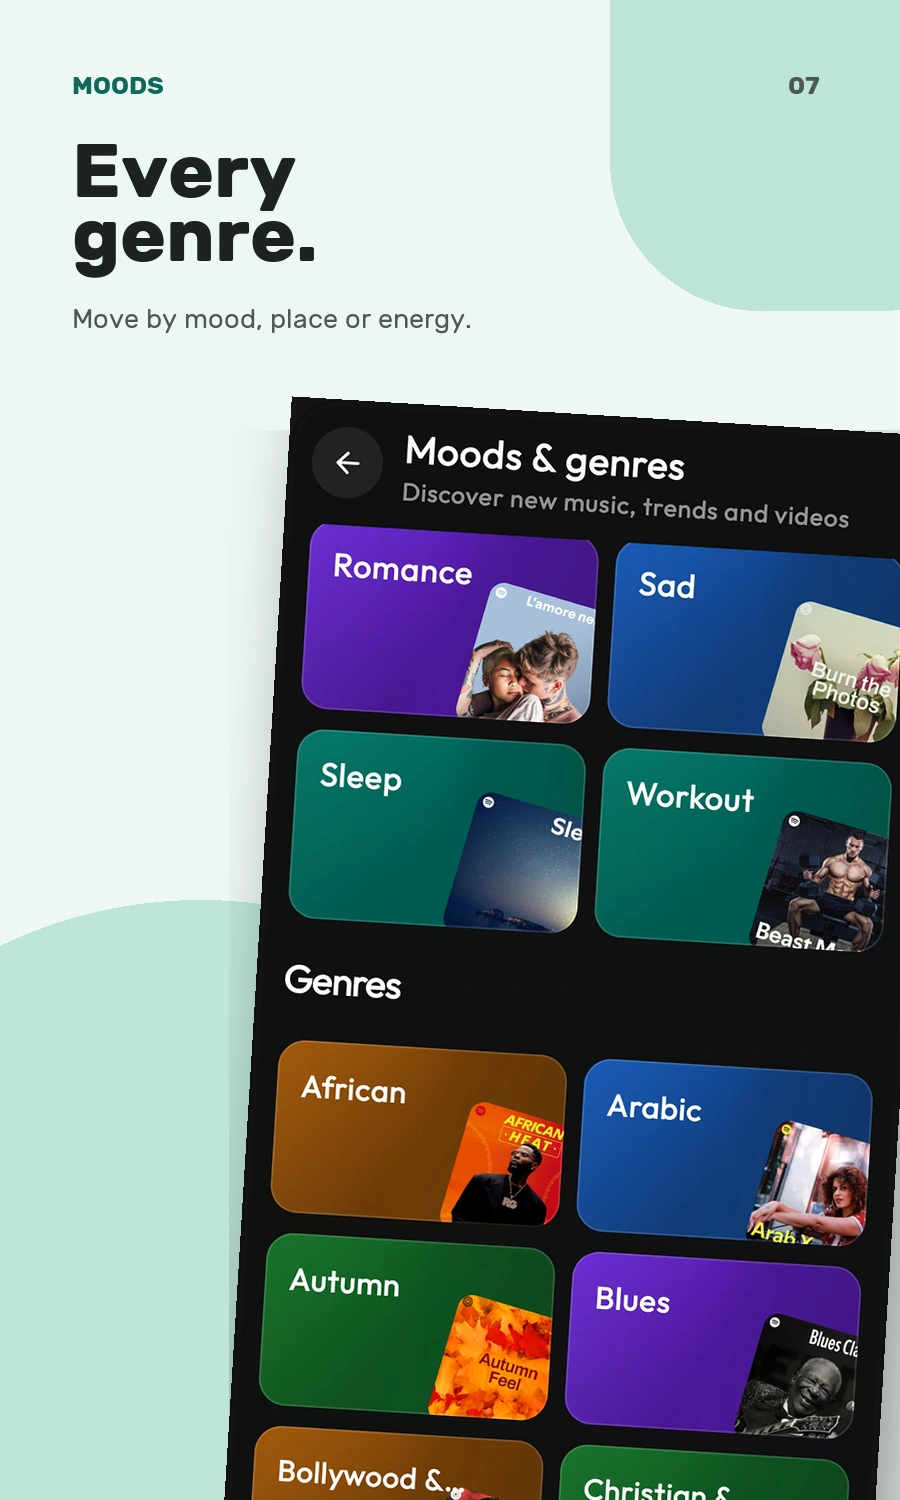
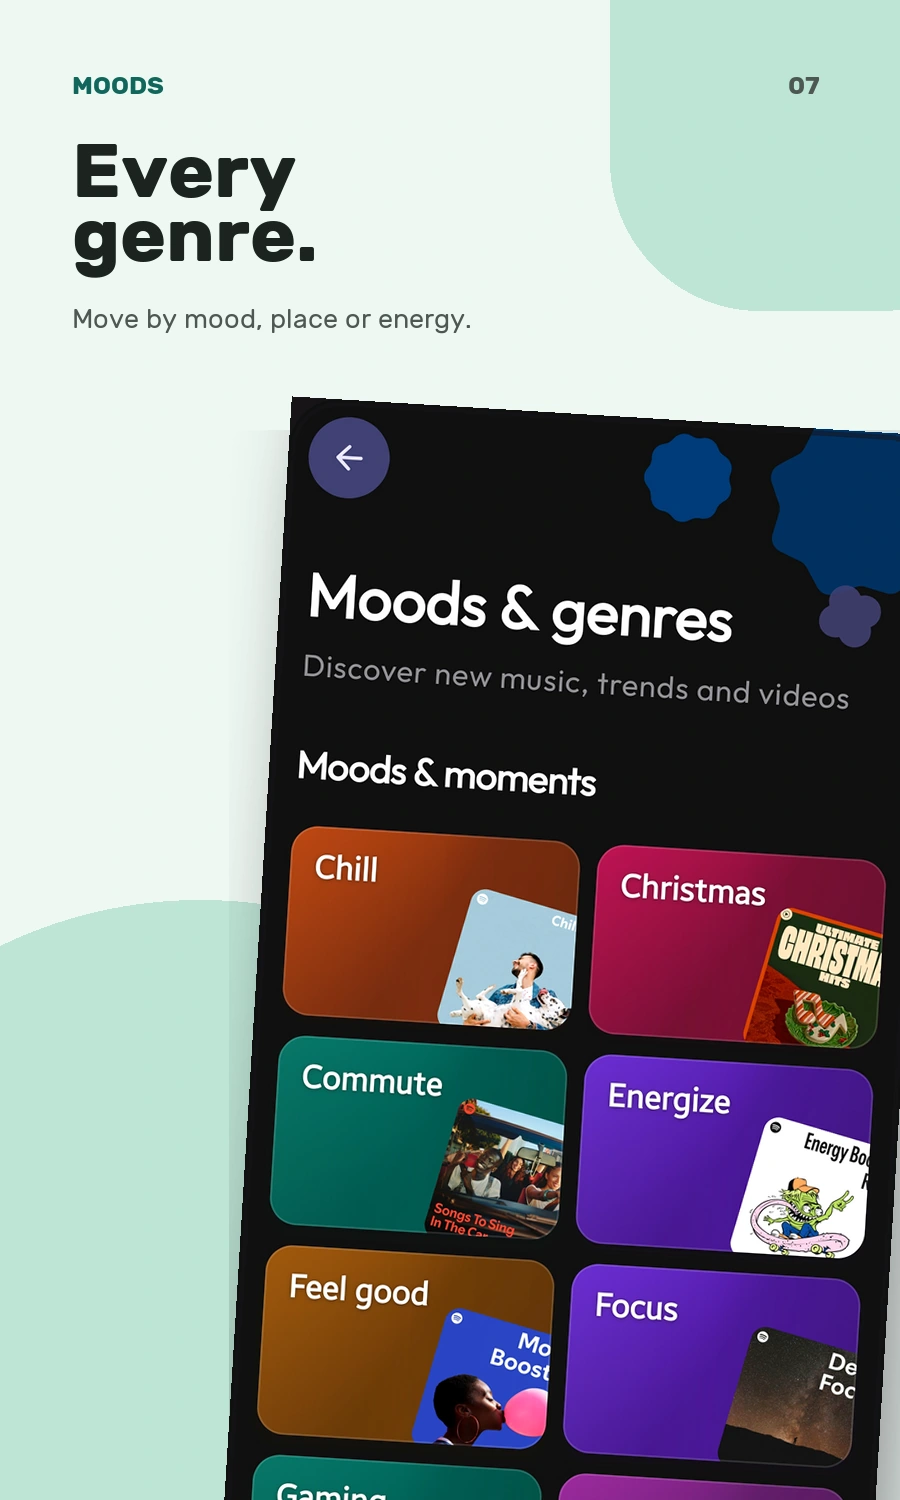
docs: refresh every genre showcase screenshot

diff --git a/scripts/generate_showcase_assets.py b/scripts/generate_showcase_assets.py
@@ -587,7 +587,7 @@ README_CARD_SPECS = [
     ("04_open_the_album", "OFFLINE", "Open the\nwhole album.", "Keep the music you come back to.", "Screenshot_20260926_194706_LEVYRA.jpg"),
     ("05_fresh_currents", "DISCOVERY", "Fresh\ncurrents.", "New releases without the scroll fatigue.", "Screenshot_20261010_132210_LEVYRA.jpg"),
     ("06_built_for_your_taste", "LEVYRA MIX", "Built for\nyour taste.", "A mix shaped around the moment.", "Screenshot_20261010_132217_LEVYRA.jpg"),
-    ("07_every_genre", "MOODS", "Every\ngenre.", "Move by mood, place or energy.", "Screenshot_20261010_132249_LEVYRA.jpg"),
+    ("07_every_genre", "MOODS", "Every\ngenre.", "Move by mood, place or energy.", "Screenshot_20261015_140910_LEVYRA.jpg"),
     ("08_acoustic_precision", "AUDIO", "Acoustic\nprecision.", "Tune the sound, keep the soul.", "Screenshot_20261010_190726_LEVYRA.jpg"),
     ("09_keep_it_personal", "LIBRARY", "Keep it\npersonal.", "Your collection stays yours.", "Screenshot_20261010_132050_LEVYRA.jpg"),
     ("10_curated_for_you", "COLLECTIONS", "Curated\nfor you.", "Quick picks, ready when you are.", "Screenshot_20261010_132136_LEVYRA.jpg"),

diff --git a/README.md b/README.md
@@ -126,7 +126,7 @@ Enhanced Audio is on by default and can be turned off in Audio Settings. Technic
 
 <p align="center">
 <a href="docs/assets/showcase/editorial-cards/01_pure_listening.webp"><img src="docs/assets/showcase/editorial-cards/01_pure_listening.webp?v=m3-cards-v2" width="200" alt="Levyra radio: Pure listening" /></a><a href="docs/assets/showcase/editorial-cards/02_stay_with_the_song.webp"><img src="docs/assets/showcase/editorial-cards/02_stay_with_the_song.webp?v=m3-cards-v2" width="200" alt="Levyra now playing: Stay with the song" /></a><a href="docs/assets/showcase/editorial-cards/03_sing_along.webp"><img src="docs/assets/showcase/editorial-cards/03_sing_along.webp?v=m3-cards-v2" width="200" alt="Levyra synced lyrics: Sing along" /></a><a href="docs/assets/showcase/editorial-cards/04_open_the_album.webp"><img src="docs/assets/showcase/editorial-cards/04_open_the_album.webp?v=m3-cards-v2" width="200" alt="Levyra offline albums: Open the whole album" /></a><br>
-<a href="docs/assets/showcase/editorial-cards/05_fresh_currents.webp"><img src="docs/assets/showcase/editorial-cards/05_fresh_currents.webp?v=m3-cards-v2" width="200" alt="Levyra discovery: Fresh currents" /></a><a href="docs/assets/showcase/editorial-cards/06_built_for_your_taste.webp"><img src="docs/assets/showcase/editorial-cards/06_built_for_your_taste.webp?v=m3-cards-v2" width="200" alt="Levyra Mix: Built for your taste" /></a><a href="docs/assets/showcase/editorial-cards/07_every_genre.webp"><img src="docs/assets/showcase/editorial-cards/07_every_genre.webp?v=m3-cards-v2" width="200" alt="Levyra moods and genres: Every genre" /></a><a href="docs/assets/showcase/editorial-cards/08_acoustic_precision.webp"><img src="docs/assets/showcase/editorial-cards/08_acoustic_precision.webp?v=m3-cards-v2" width="200" alt="Levyra audio tuning: Acoustic precision" /></a><br>
+<a href="docs/assets/showcase/editorial-cards/05_fresh_currents.webp"><img src="docs/assets/showcase/editorial-cards/05_fresh_currents.webp?v=m3-cards-v2" width="200" alt="Levyra discovery: Fresh currents" /></a><a href="docs/assets/showcase/editorial-cards/06_built_for_your_taste.webp"><img src="docs/assets/showcase/editorial-cards/06_built_for_your_taste.webp?v=m3-cards-v2" width="200" alt="Levyra Mix: Built for your taste" /></a><a href="docs/assets/showcase/editorial-cards/07_every_genre.webp"><img src="docs/assets/showcase/editorial-cards/07_every_genre.webp?v=m3-cards-v3" width="200" alt="Levyra moods and genres: Every genre" /></a><a href="docs/assets/showcase/editorial-cards/08_acoustic_precision.webp"><img src="docs/assets/showcase/editorial-cards/08_acoustic_precision.webp?v=m3-cards-v2" width="200" alt="Levyra audio tuning: Acoustic precision" /></a><br>
 <a href="docs/assets/showcase/editorial-cards/09_keep_it_personal.webp"><img src="docs/assets/showcase/editorial-cards/09_keep_it_personal.webp?v=m3-cards-v2" width="200" alt="Levyra library: Keep it personal" /></a><a href="docs/assets/showcase/editorial-cards/10_curated_for_you.webp"><img src="docs/assets/showcase/editorial-cards/10_curated_for_you.webp?v=m3-cards-v2" width="200" alt="Levyra collections: Curated for you" /></a><a href="docs/assets/showcase/editorial-cards/11_your_rhythm.webp"><img src="docs/assets/showcase/editorial-cards/11_your_rhythm.webp?v=m3-cards-v2" width="200" alt="Levyra listening insights: Your rhythm" /></a><a href="docs/assets/showcase/editorial-cards/12_in_your_orbit.webp"><img src="docs/assets/showcase/editorial-cards/12_in_your_orbit.webp?v=m3-cards-v2" width="200" alt="Levyra home: In your orbit" /></a><br>
 <a href="docs/assets/showcase/editorial-cards/13_tailor_every_detail.webp"><img src="docs/assets/showcase/editorial-cards/13_tailor_every_detail.webp?v=m3-cards-v2" width="200" alt="Levyra settings: Tailor every detail" /></a><a href="docs/assets/showcase/editorial-cards/14_fresh_off_the_stage.webp"><img src="docs/assets/showcase/editorial-cards/14_fresh_off_the_stage.webp?v=m3-cards-v2" width="200" alt="Levyra new releases: Fresh off the stage" /></a><a href="docs/assets/showcase/editorial-cards/15_meet_the_artist.webp"><img src="docs/assets/showcase/editorial-cards/15_meet_the_artist.webp?v=m3-cards-v2" width="200" alt="Levyra artist profiles: Meet the artist" /></a><a href="docs/assets/showcase/editorial-cards/16_listen_together.webp"><img src="docs/assets/showcase/editorial-cards/16_listen_together.webp?v=m3-cards-v2" width="200" alt="Levyra Jam: Listen together" /></a>
 </p>
